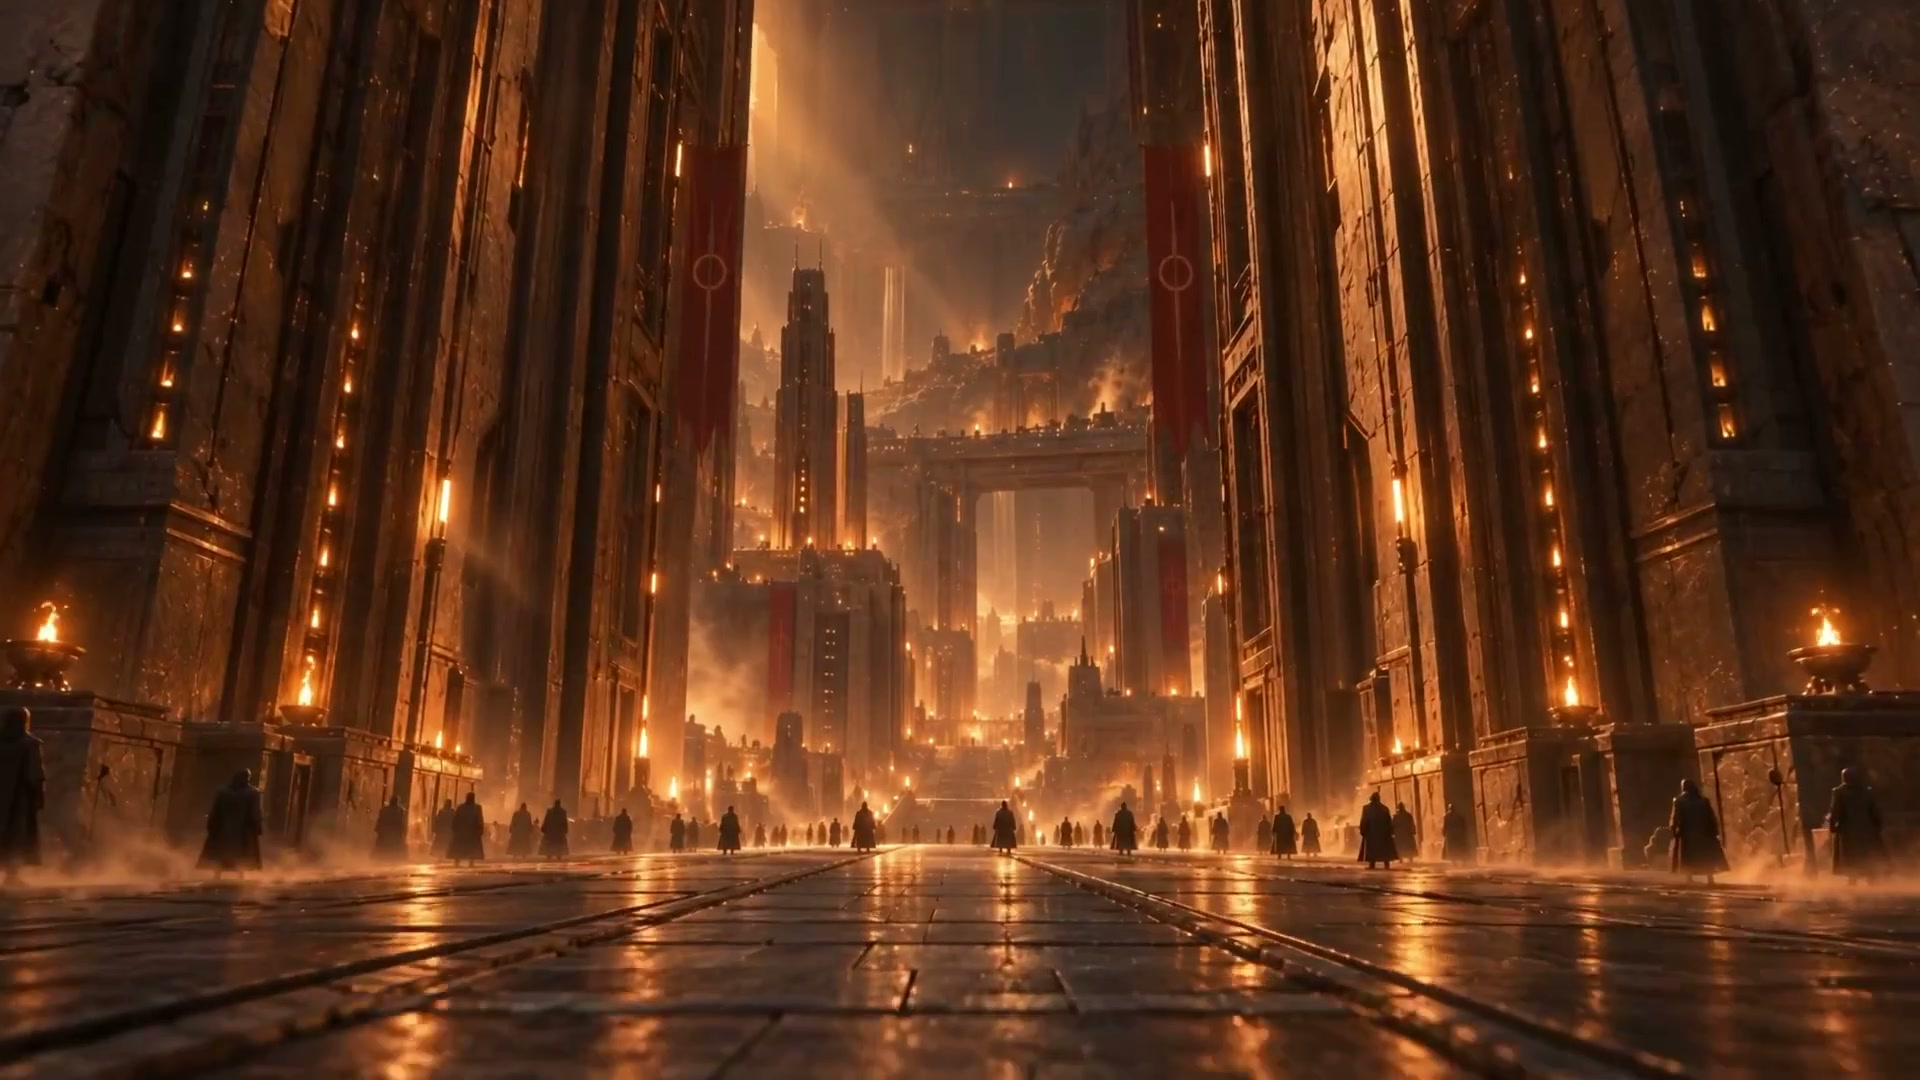
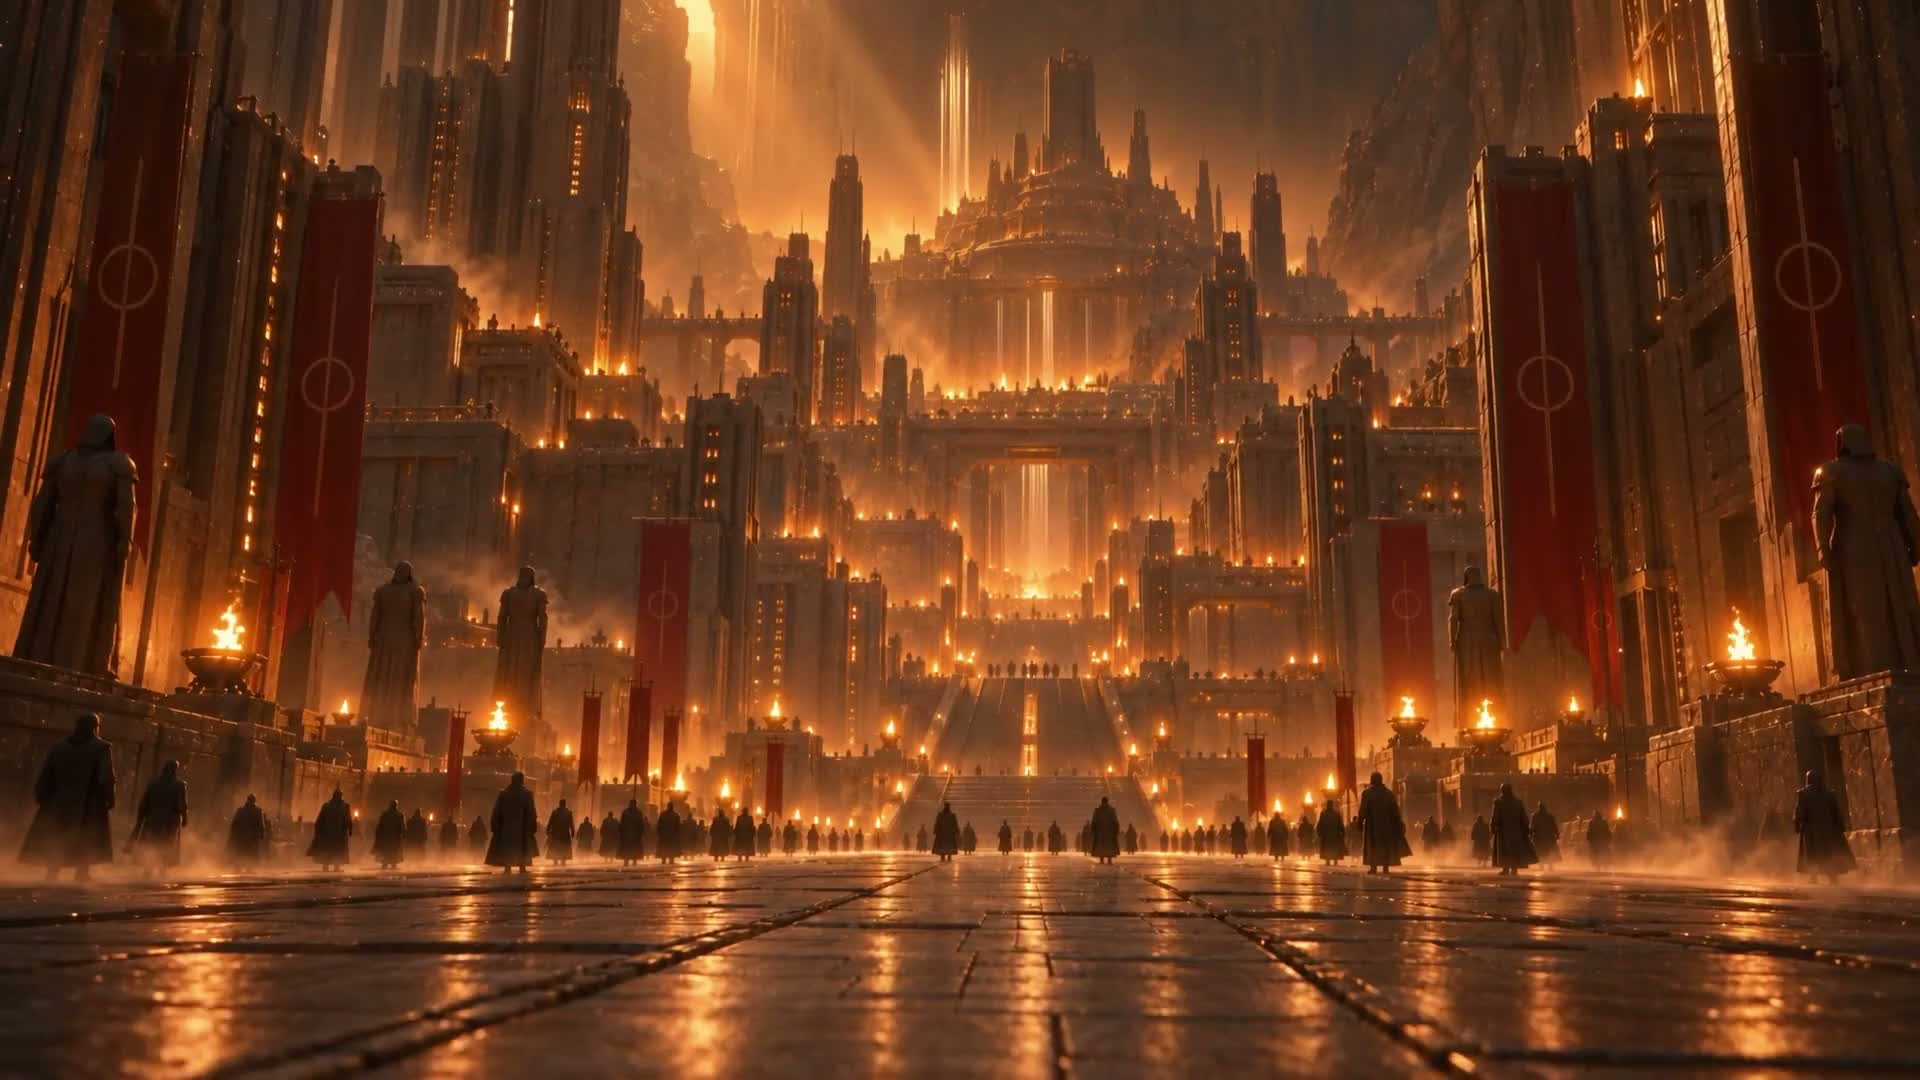
fix(scroll-video): replace AI citadel backdrop with authentic video frame and delay fade until full scroll completion

diff --git a/src/components/landing/scroll-journey.tsx b/src/components/landing/scroll-journey.tsx
@@ -283,7 +283,7 @@ export function ScrollJourney({
   const landingOpacity = Math.max(0, 1 - scrollProgress * 12);
   const scrollVideoOpacity = Math.min(1, scrollProgress * 14);
   const citadelBackdropOpacity =
-    scrollProgress > 0.65 ? Math.min(1, (scrollProgress - 0.65) * 4) : 0;
+    scrollProgress > 0.94 ? Math.min(1, (scrollProgress - 0.94) * 16) : 0;
 
   return (
     <div
@@ -296,7 +296,10 @@ export function ScrollJourney({
         <div
           className="absolute inset-0 h-full w-full pointer-events-none"
           style={{
-            backgroundImage: "url('/scrolling-hd-poster.jpg')",
+            backgroundImage:
+              scrollProgress > 0.6
+                ? "url('/citadel-poster.jpg')"
+                : "url('/scrolling-hd-poster.jpg')",
             backgroundSize: "cover",
             backgroundPosition: "center",
           }}
